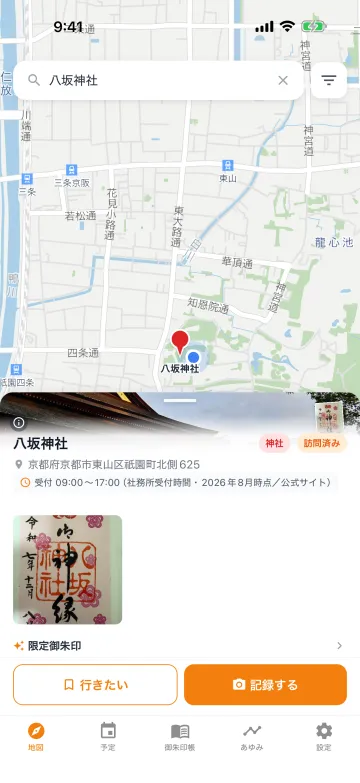
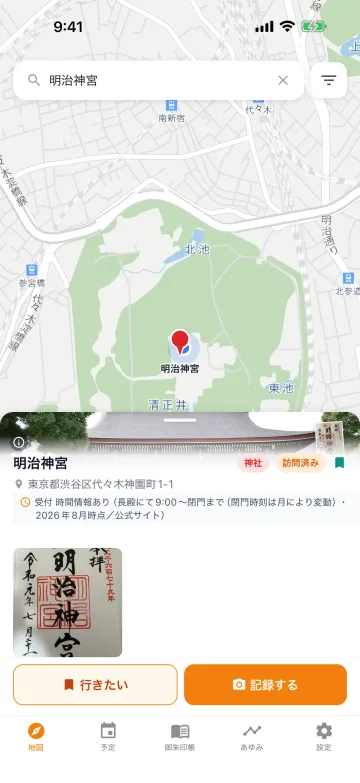
fix: ホームページの見出しの折り返しと、スクショの 2 枚目を明治神宮に（#324）
- トップの h1 とスクショの見出しを句読点のところでだけ折り返す（「写真1／枚」と割れていた）
- スクショの 2 枚目を八坂神社から明治神宮のシートに替えた（八坂神社の受付時間は社務所の時間で、サイトには出さない値だったため、画面とページが食い違っていた）
- site/README.md の素材の表を「ある」に直した

diff --git a/site/style.ts b/site/style.ts
@@ -47,7 +47,7 @@ header .wrap{display:flex;align-items:center;min-height:56px}
 .brand{display:inline-flex;align-items:center;gap:var(--space-sm);padding:var(--space-sm) 0;color:var(--sumi);font-size:18px;font-weight:700;line-height:24px;text-decoration:none}
 .brand img{display:block;width:28px;height:28px;border-radius:6px}
 main{display:block;padding-bottom:var(--space-5xl)}
-h1{font-size:28px;font-weight:700;line-height:34px;margin:var(--space-lg) 0 var(--space-sm);text-wrap:balance}
+h1{font-size:28px;font-weight:700;line-height:34px;margin:var(--space-lg) 0 var(--space-sm);text-wrap:balance;word-break:keep-all;overflow-wrap:anywhere}
 h2{font-size:22px;font-weight:700;line-height:28px;margin:var(--space-3xl) 0 var(--space-md)}
 h3{font-size:18px;font-weight:600;line-height:24px;margin:var(--space-2xl) 0 var(--space-sm)}
 p{margin:0 0 var(--space-md)}
@@ -80,7 +80,8 @@ ul,ol{margin:0;padding:0;list-style:none}
 .shots{display:grid;grid-template-columns:repeat(2,minmax(0,1fr));gap:var(--space-lg);margin:var(--space-lg) 0 0}
 .shots figure{margin:0}
 .shots img{display:block;width:100%;height:auto;aspect-ratio:1320/2868;border-radius:var(--radius-xl);background:var(--washi-shade)}
-.shots figcaption{margin-top:var(--space-sm);font-weight:600;line-height:24px}
+.shots figcaption{margin-top:var(--space-sm);font-weight:600;line-height:24px;word-break:keep-all;overflow-wrap:anywhere}
+.shots figcaption span{word-break:normal}
 .shots figcaption span{display:block;font-weight:400;font-size:14px;line-height:20px;color:var(--washi-sub);margin-top:var(--space-xs)}
 .chips{display:flex;flex-wrap:wrap;gap:var(--space-sm)}
 .chips a{display:inline-block;padding:var(--space-sm) var(--space-md);min-width:44px;background:var(--card);border:1px solid var(--washi-shade);border-radius:var(--radius-full);text-decoration:none;line-height:20px}

diff --git a/site/pages.ts b/site/pages.ts
@@ -24,7 +24,7 @@ export const SCREENS: readonly { caption: string; note: string; alt: string }[] 
   {
     caption: 'ピンを押すと、寺社の写真と受付時間。',
     note: '地図のピンを押すと、寺社の写真と、分かる寺社は御朱印の受付時間が見られます。記録は写真を1枚撮るだけ。',
-    alt: '八坂神社のシート。寺社の写真と御朱印の受付時間が出ている',
+    alt: '明治神宮のシート。寺社の写真と御朱印の受付時間が出ている',
   },
   {
     caption: '集めるたび、地図があなたの旅になる。',
